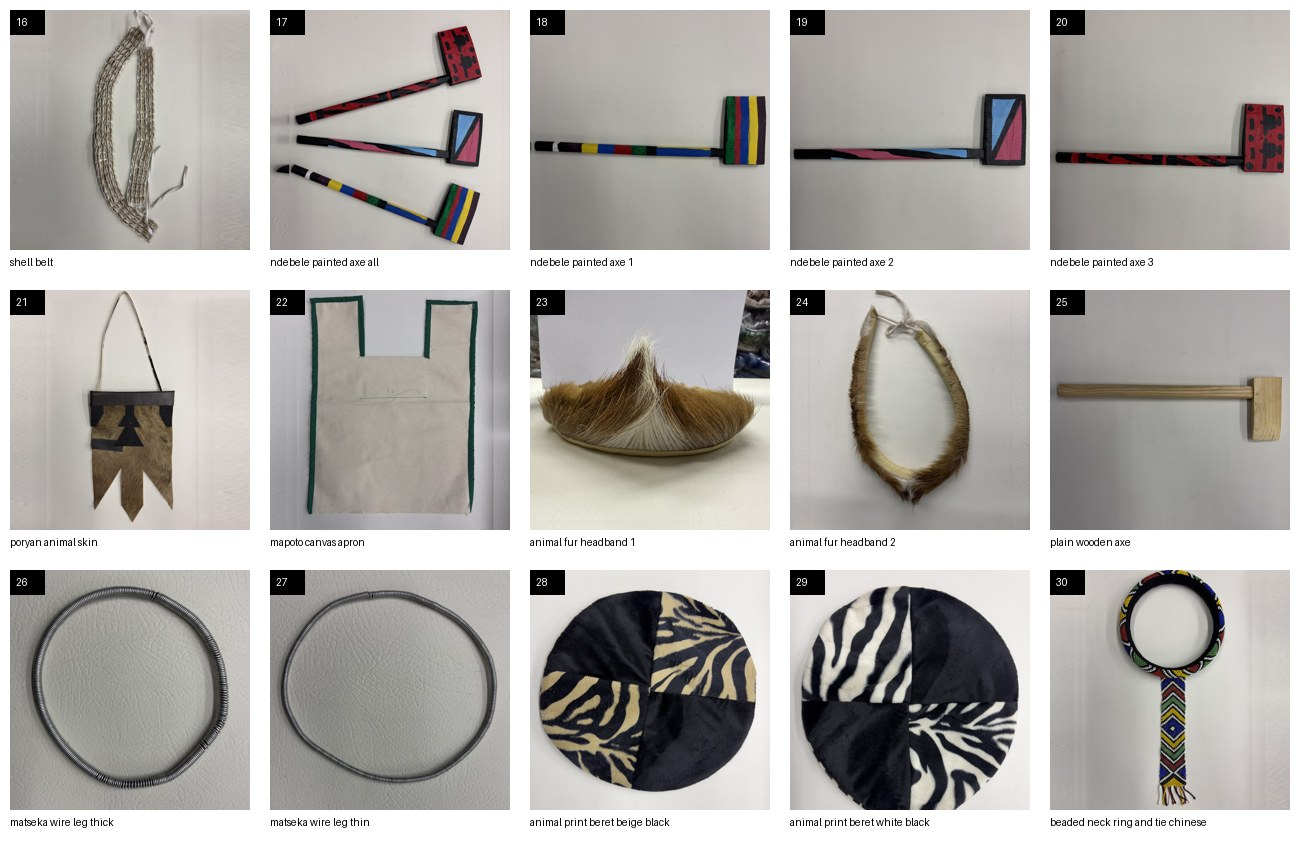
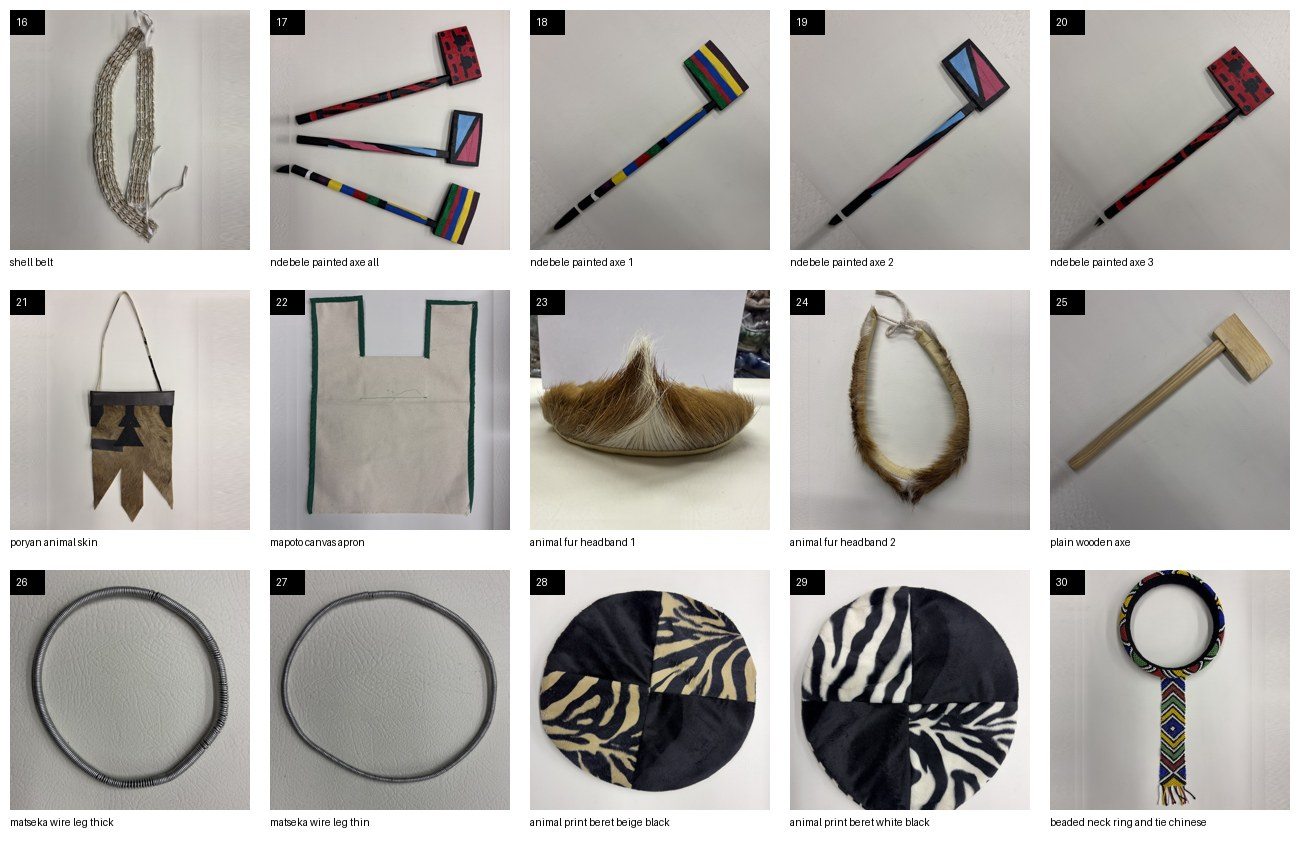
Traditional items: diagonal axe crops, 2 more 12-pack bangle photos
Claude-Session: https://claude.ai/code/session_01FrAdmZhbnvV2Pi8Ea2YxmY

diff --git a/marketing/website/new-products/crop-traditional.py b/marketing/website/new-products/crop-traditional.py
@@ -8,17 +8,20 @@ CROPS = {
  'shiny_gold_dimit_coins': (.6,.55,.5), 'shiny_silver_dimit_coins': (.6,.57,.58),
  'beaded_knob_stick': (.57,.47,.84), 'beaded_necklace_large': (.51,.5,1.02), 'beaded_necklace_medium': (.55,.52,.85),
  'beaded_necklace_small': (.5,.48,.78), 'mini_wooden_knob': (.5,.5,1.36), 'mini_wooden_spear': (.53,.51,1.36),
- 'shell_belt': (.51,.51,1.3), 'ndebele_painted_axe_all': (.47,.44,1.12), 'ndebele_painted_axe_1': (.47,.43,.95),
- 'ndebele_painted_axe_2': (.48,.41,.95), 'ndebele_painted_axe_3': (.48,.5,.96), 'poryan_animal_skin': (.55,.5,1.3),
+ 'shell_belt': (.51,.51,1.3), 'ndebele_painted_axe_all': (.47,.44,1.12), 'ndebele_painted_axe_1': (.47,.43,1.05),
+ 'ndebele_painted_axe_2': (.48,.41,1.05), 'ndebele_painted_axe_3': (.48,.5,1.05), 'poryan_animal_skin': (.55,.5,1.3),
  'mapoto_canvas_apron': (.5,.5,1.16), 'animal_fur_headband_1': (.5,.55,.74), 'animal_fur_headband_2': (.5,.51,1.18),
  'plain_wooden_axe': (.48,.46,.96), 'matseka_wire_leg_thick': (.55,.49,.74), 'matseka_wire_leg_thin': (.53,.42,.75),
  'animal_print_beret_beige_black': (.515,.44,.95), 'animal_print_beret_white_black': (.505,.415,.93),
  'beaded_neck_ring_and_tie_chinese': (.5,.52,1.26),
  'matseka_wire_bangle_hand_thick': (.57,.48,.78), 'matseka_wire_bangle_hand_thin': (.55,.475,.76),
  'stretchy_matseka_bangle_12pkt_maroon': (.5,.42,.82), 'stretchy_matseka_bangle_gold': (.56,.455,.72), 'stretchy_matseka_bangle_silver': (.565,.45,.72),
+ 'stretchy_matseka_bangle_12pkt_silver': (.53,.38,.82), 'stretchy_matseka_bangle_12pkt_copper': (.56,.41,.82),
 }
 # dark table edges in the photo: (side, width fraction) replaced by the plain background next to them
 CLEAN = {'shell_belt': [('l', .05), ('r', .1)], 'poryan_animal_skin': [('l', .1), ('r', .08)], 'mapoto_canvas_apron': [('l', .05)], 'beaded_neck_ring_and_tie_chinese': [('l', .04), ('r', .07)]}
+# long flat items turned to lie corner to corner (degrees anticlockwise), so they fill the square
+DIAG = {'ndebele_painted_axe_1': 40, 'ndebele_painted_axe_2': 40, 'ndebele_painted_axe_3': 40, 'plain_wooden_axe': 40}
 ROT = json.loads(sys.argv[3]) if len(sys.argv) > 3 else {}
 def clean(im, edges):
     W, H = im.size
@@ -45,7 +48,10 @@ for n in order:
     cx, cy, side = CROPS[n]
     im = Image.open(f'{src}/{n}.jpg').convert('RGB')
     if n in CLEAN: im = clean(im, CLEAN[n])
-    c = crop(im, cx, cy, side).resize((1000, 1000), Image.LANCZOS)
+    if n in DIAG:
+        big = crop(im, cx, cy, side * 1.45).rotate(DIAG[n], resample=Image.BICUBIC)
+        m = int(big.width * (1 - 1 / 1.45) / 2); c = big.crop((m, m, big.width - m, big.width - m)).resize((1000, 1000), Image.LANCZOS)
+    else: c = crop(im, cx, cy, side).resize((1000, 1000), Image.LANCZOS)
     if n in ROT: c = c.rotate(-ROT[n], expand=False)
     c.save(f'{out}/{n}.jpg', quality=90)
 # numbered sheets, 15 per sheet
